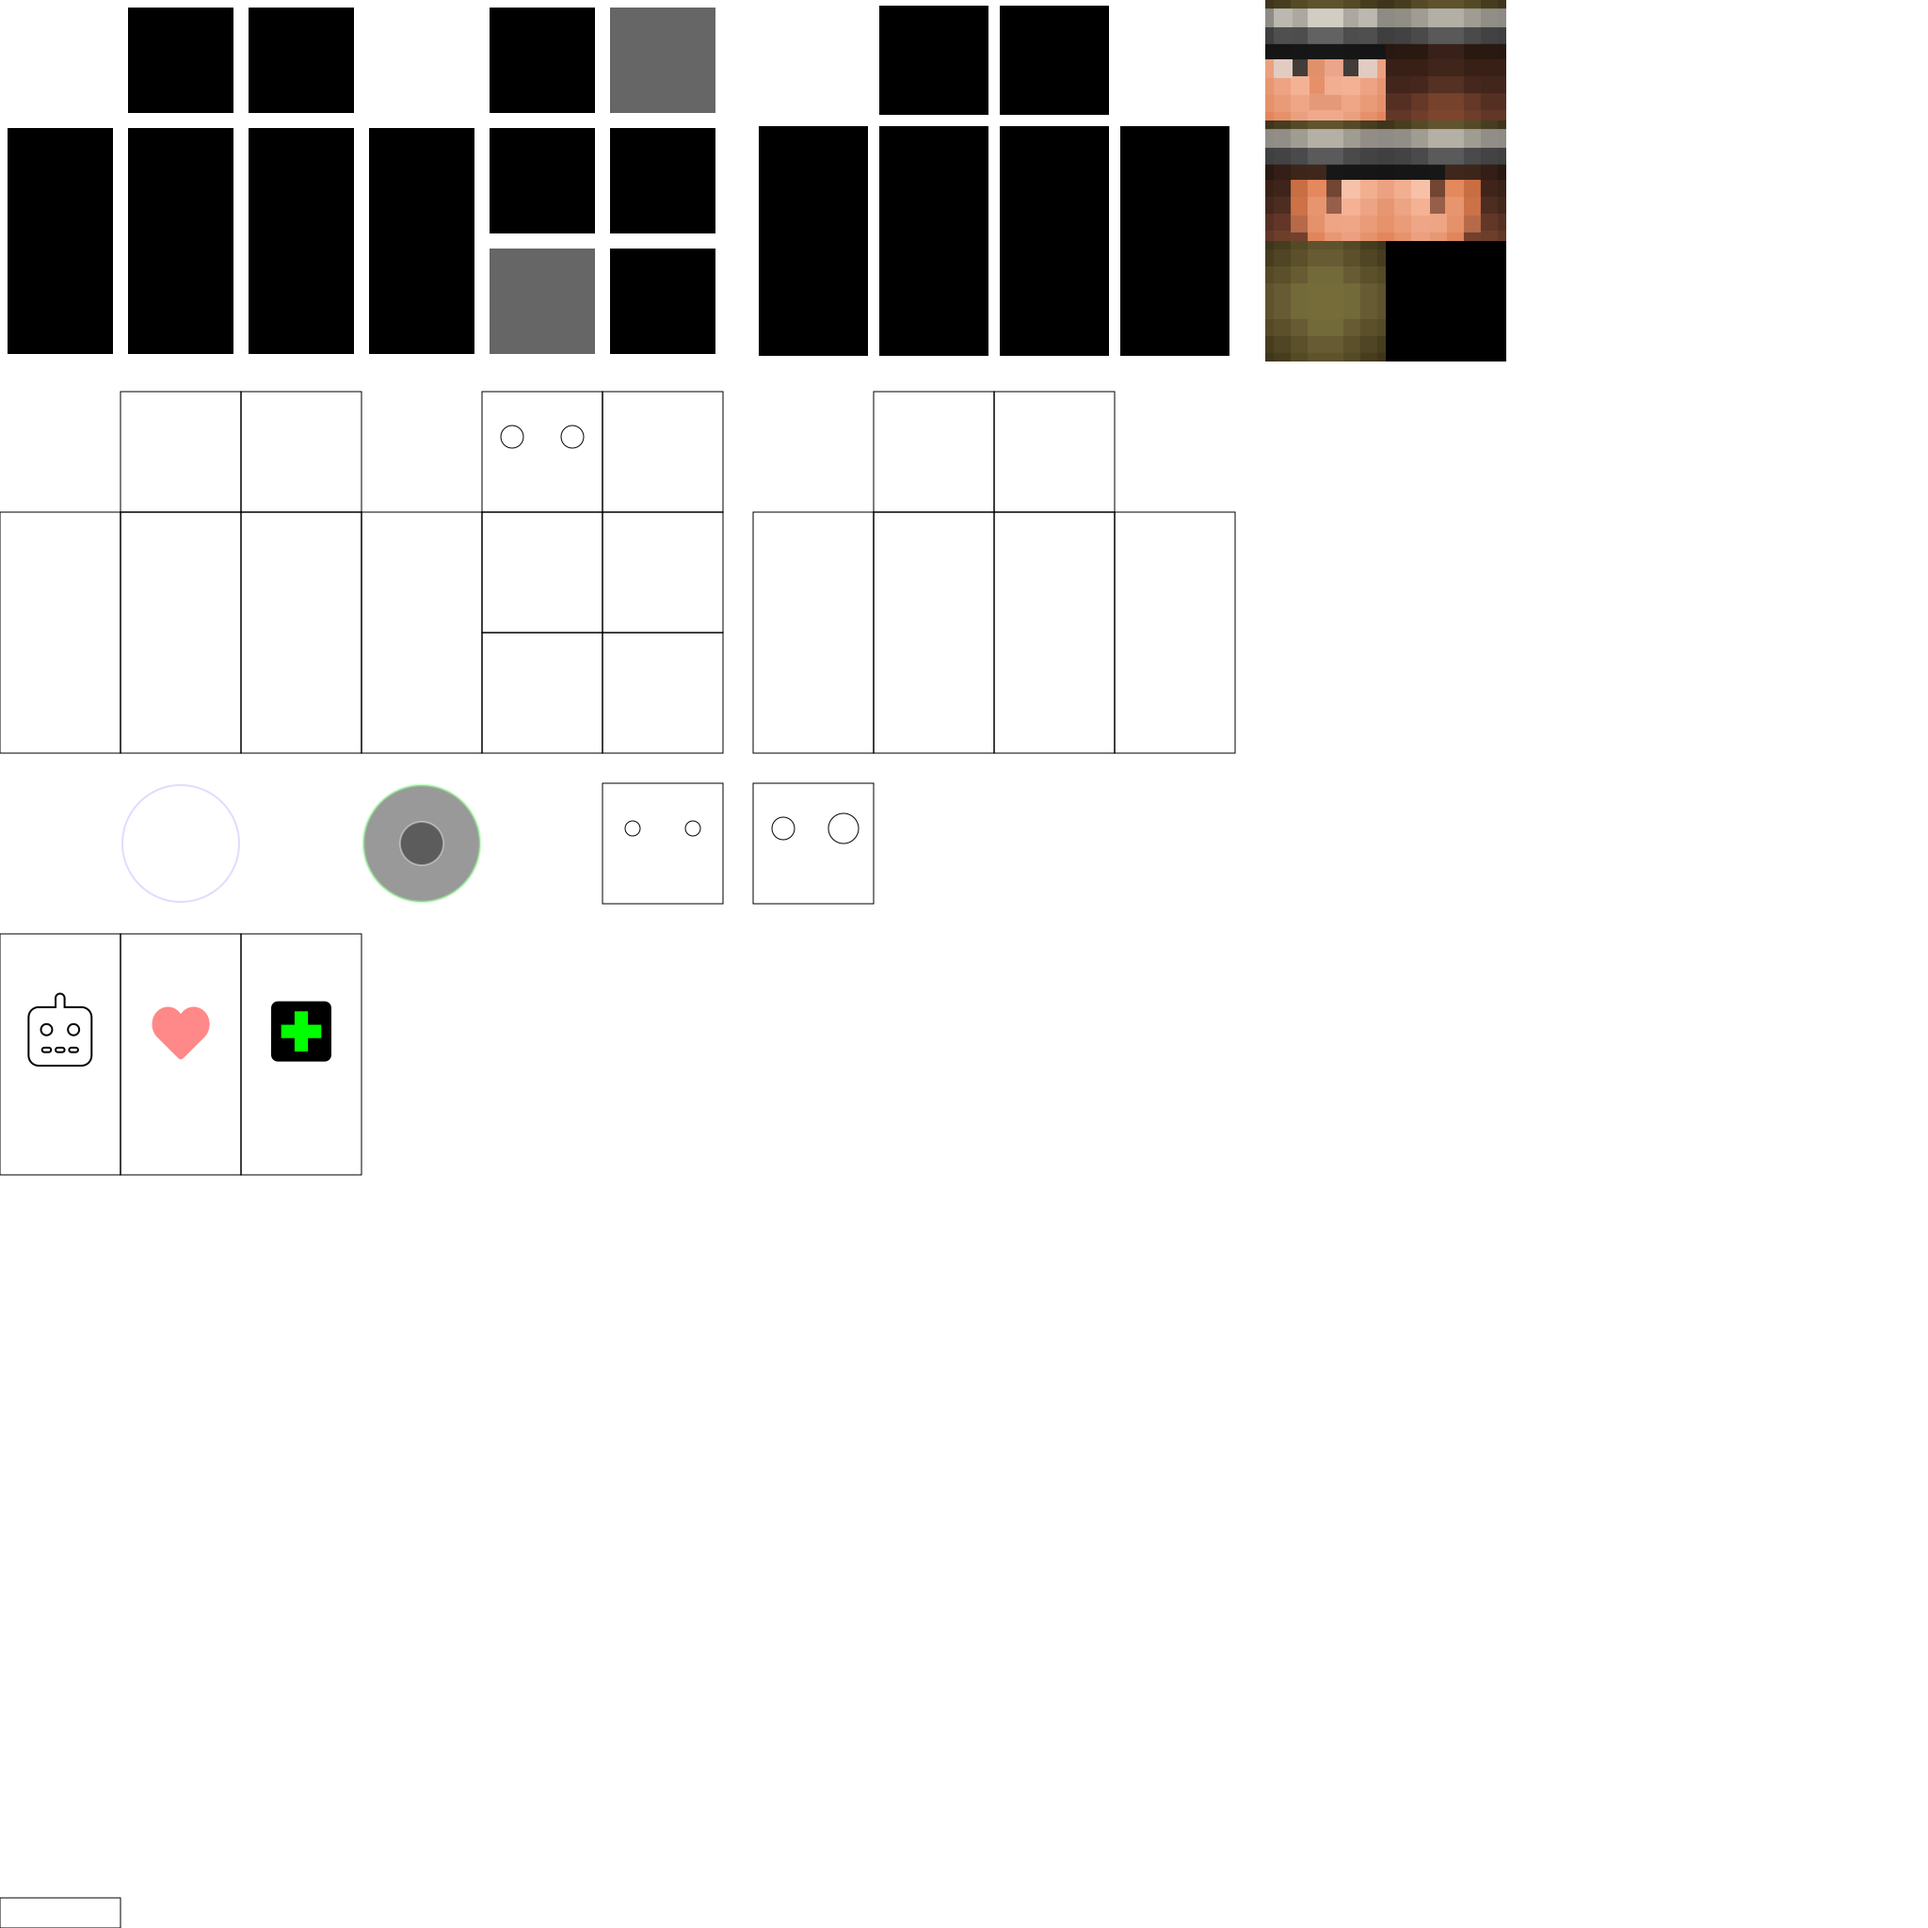
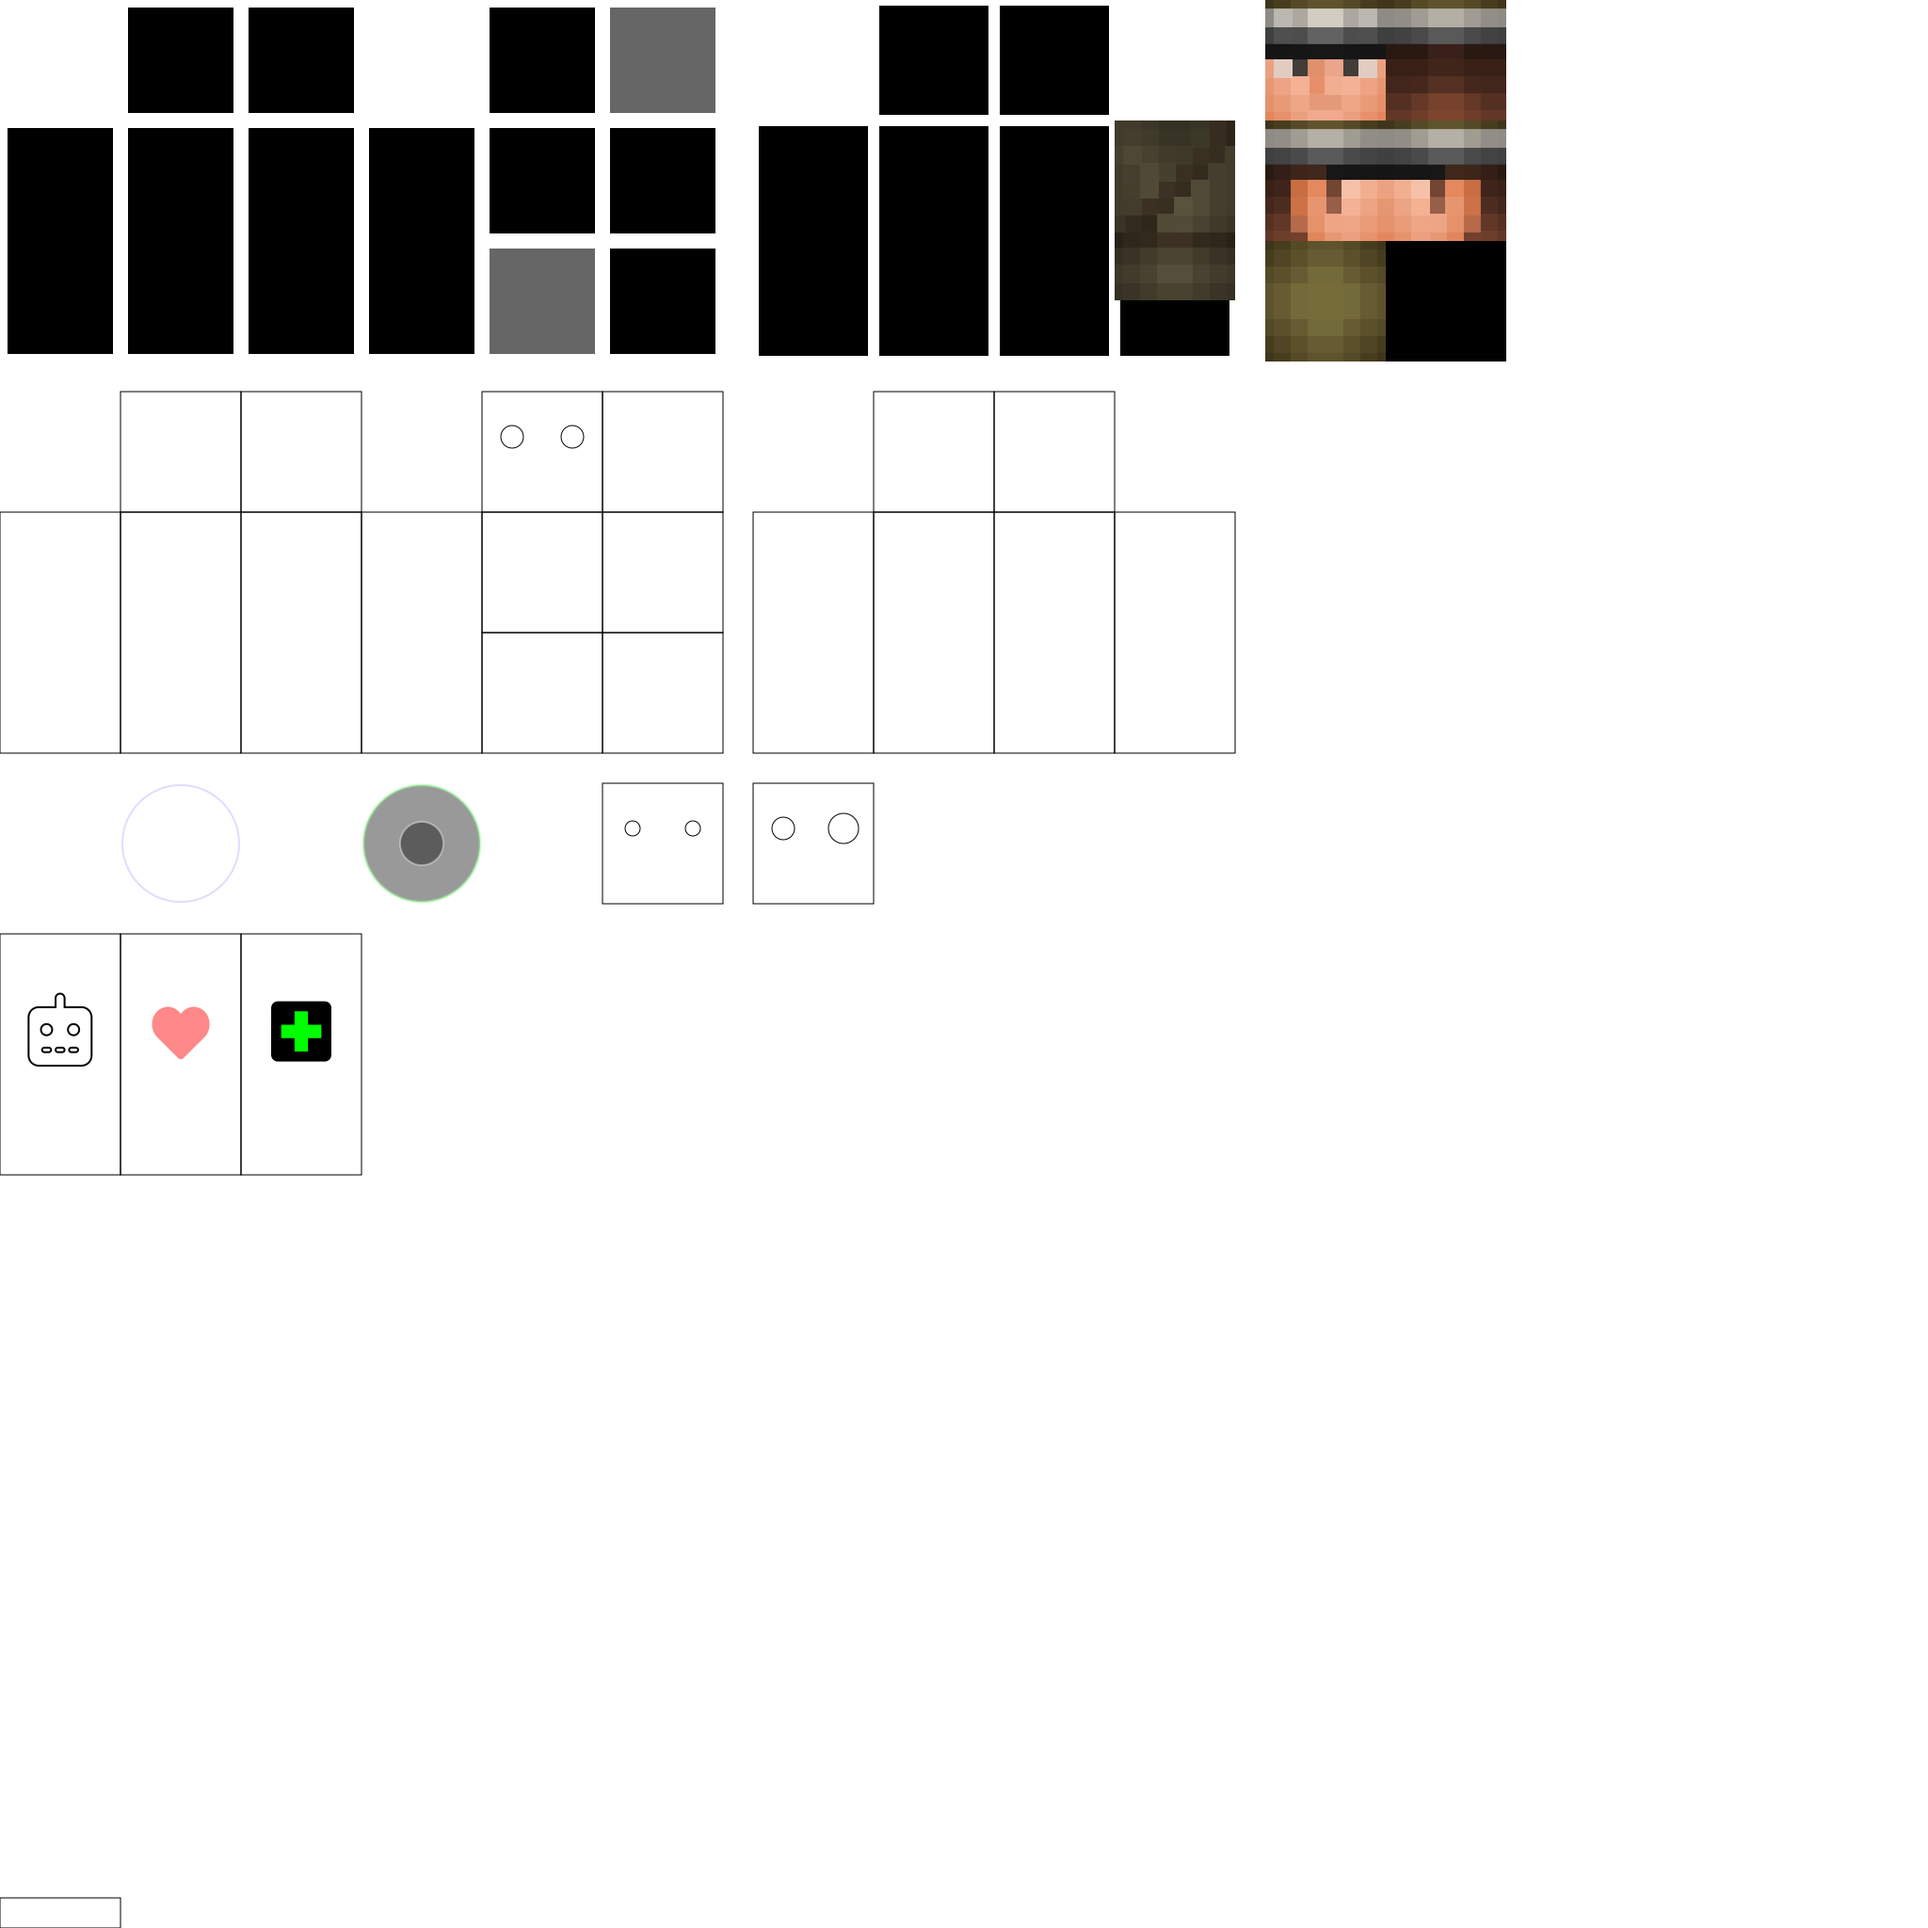
feat: towards minecraft test-body

Changed region(s): [[0.5625, 0.0625, 0.6562, 0.1562]]

diff --git a/docs/TODO.md b/docs/TODO.md
@@ -164,6 +164,8 @@
       - soldier https://namemc.com/skin/45461862ef51524e
       - head-left means from perspective of onlooker (not from character perspective)
       - boxy-svg try compositing > filter > pixelated (pixel size 18)
+    - 🚧 try copy soldier body into test-body
+    - try copy soldier overlay into test-body-overlay
 
   - ✅ IDEA load SVG using `canvas` and somehow convert it into `@napi-rs/canvas` (or `skia-canvas`) format
     - ℹ we're avoiding node-canvas _output_ because of nondeterminism
